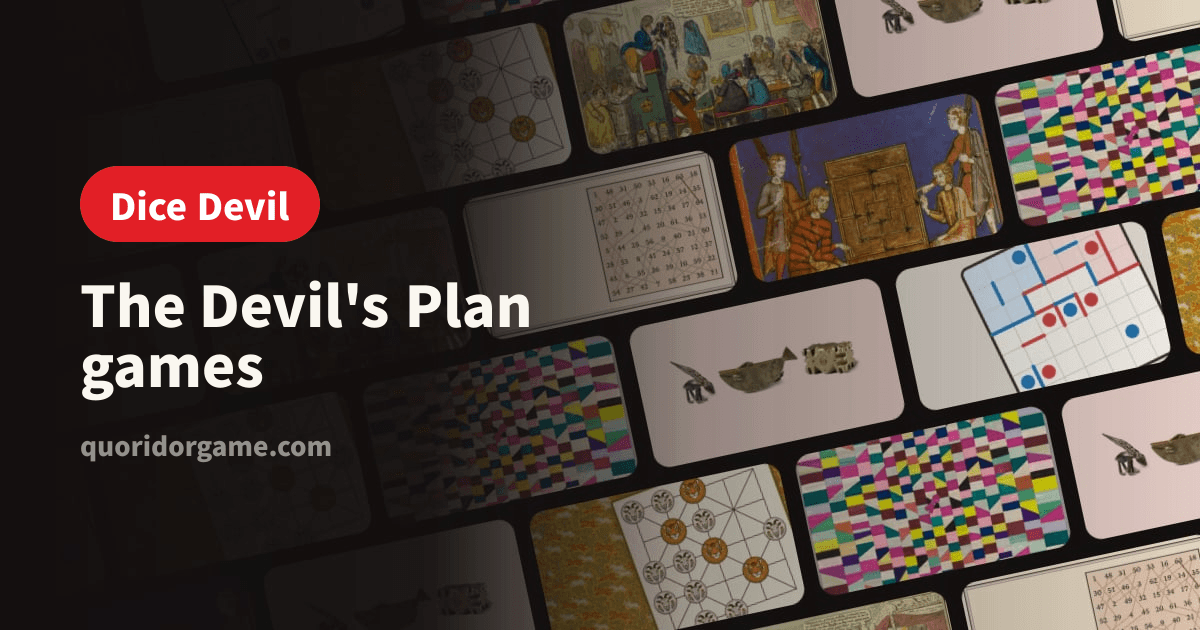
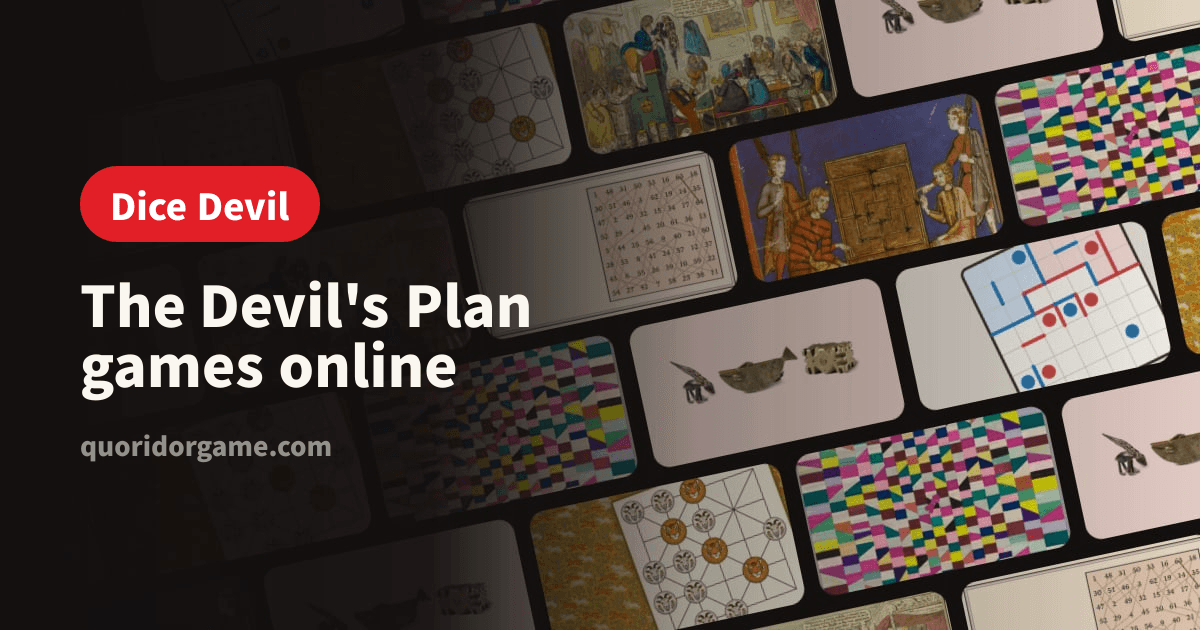
fix(platform): 分享圖大標第二行補成一句
原本「遊戲」兩個字自己一行，像被擠下去的（Zach）。六語第二行都改成完整的一句：
遊戲線上玩／游戏在线玩／games online／ゲームで遊ぼう／게임 바로 플레이／เล่นเกมจาก（泰文是第一行）。

Claude-Session: https://claude.ai/code/session_01VbfEeJvisc9iRddWhVWALh

Changed region(s): [[0.2158, 0.5429, 0.4008, 0.6333], [0.9558, 0.0905, 0.9867, 0.1206], [0.8325, 0.754, 0.8633, 0.7841]]

diff --git a/app/i18n/messages/th.ts b/app/i18n/messages/th.ts
@@ -40,7 +40,7 @@ const th: Messages = {
     ogTitle: "รวมเกมใน The Devil's Plan",
     ogDescription: 'ทุกเกมในรายการ เกมที่ทำเสร็จแล้วเล่นได้เลย ไม่ต้องดาวน์โหลด ไม่ต้องสมัครสมาชิก',
     heading: "เกมใน The Devil's Plan",
-    ogLines: ['เกมใน', "The Devil's Plan"],
+    ogLines: ['เล่นเกมจาก', "The Devil's Plan"],
     heroBadge: 'เล่นได้เลย',
     heroMeta: 'ซีซัน 2 Death Room · 2–3 คน · ไม่ต้องดาวน์โหลด',
     heroBody: 'กระดาน 7×7 แต่ละตาเดินหมากหนึ่งตัวแล้วสร้างกำแพงหนึ่งด้านเพื่อล้อมพื้นที่ เล่นกับคอมพิวเตอร์ หรือเปิดห้องแล้วส่งลิงก์ให้เพื่อน',

diff --git a/app/i18n/messages/zh-TW.ts b/app/i18n/messages/zh-TW.ts
@@ -38,8 +38,9 @@ const zhTW = {
     ogTitle: '魔鬼的計謀 遊戲整理與線上玩',
     ogDescription: '節目裡的每一款遊戲，能玩的直接開打。免下載、免註冊。',
     heading: '《魔鬼的計謀》遊戲',
-    /** 分享圖上的大標，逐行指定 —— 自動斷行會把節目名從中間拆開 */
-    ogLines: ['《魔鬼的計謀》', '遊戲'],
+    /** 分享圖上的大標，逐行指定 —— 自動斷行會把節目名從中間拆開。
+     *  第二行要是一句話：原本只有「遊戲」兩個字自己一行，看起來像被擠下去的（10/25 Zach） */
+    ogLines: ['《魔鬼的計謀》', '遊戲線上玩'],
     heroBadge: '現在就能玩',
     heroMeta: '第 2 季《死亡密室》．2–3 人．免下載',
     heroBody: '7×7 的棋盤，每回合走一步、蓋一道牆，把地圍起來。可以跟電腦下，或開房間傳連結給朋友。',

diff --git a/app/i18n/messages/ja.ts b/app/i18n/messages/ja.ts
@@ -31,7 +31,7 @@ const ja: Messages = {
     ogTitle: 'デビルズプラン ゲーム一覧とルール',
     ogDescription: '番組のゲームを一覧で。遊べるものはすぐプレイ。インストールも登録も不要。',
     heading: '『悪魔の計略』のゲーム',
-    ogLines: ['『悪魔の計略』の', 'ゲーム'],
+    ogLines: ['『悪魔の計略』の', 'ゲームで遊ぼう'],
     heroBadge: '今すぐ遊べる',
     heroMeta: 'シーズン2・2〜3人・インストール不要',
     heroBody: '7×7 の盤で、毎ターン駒を動かして壁を1枚立て、陣地を囲みます。コンピューターと対戦するか、部屋を作ってリンクを友だちに送りましょう。',

diff --git a/app/i18n/messages/ko.ts b/app/i18n/messages/ko.ts
@@ -34,7 +34,7 @@ const ko: Messages = {
     ogTitle: '데블스 플랜 게임 정리와 온라인 플레이',
     ogDescription: '방송에 나온 게임을 한눈에. 플레이할 수 있는 게임은 바로 시작. 설치도 가입도 필요 없습니다.',
     heading: '『데블스 플랜』 게임',
-    ogLines: ['『데블스 플랜』', '게임'],
+    ogLines: ['『데블스 플랜』', '게임 바로 플레이'],
     heroBadge: '지금 플레이',
     heroMeta: '시즌2 『데스룸』 · 2~3인 · 설치 없음',
     heroBody: '7줄 판에서 매 턴 말을 움직이고 벽 하나를 세워 영역을 둘러쌉니다. 컴퓨터와 두거나, 방을 만들어 친구에게 링크를 보내세요.',

diff --git a/app/i18n/messages/zh-Hans.ts b/app/i18n/messages/zh-Hans.ts
@@ -38,7 +38,7 @@ const zhHans: Messages = {
     ogTitle: '魔鬼的计谋 游戏整理与在线玩',
     ogDescription: '节目里的每一款游戏，能玩的直接开玩。免下载、免注册。',
     heading: '《魔鬼的计谋》游戏',
-    ogLines: ['《魔鬼的计谋》', '游戏'],
+    ogLines: ['《魔鬼的计谋》', '游戏在线玩'],
     heroBadge: '现在就能玩',
     heroMeta: '第 2 季《死亡密室》·2–3 人·免下载',
     heroBody: '7×7 的棋盘，每回合走一步、盖一道墙，把地盘围起来。可以跟电脑下，或开房间把链接发给朋友。',

diff --git a/app/i18n/messages/en.ts b/app/i18n/messages/en.ts
@@ -32,7 +32,7 @@ const en: Messages = {
     ogTitle: "The Devil's Plan Games: Rules & Play Online",
     ogDescription: 'Every game from the show — play the ones we have built. Free, no download, no sign-up.',
     heading: "The Devil's Plan games",
-    ogLines: ["The Devil's Plan", 'games'],
+    ogLines: ["The Devil's Plan", 'games online'],
     heroBadge: 'Play now',
     heroMeta: 'Season 2: Death Room · 2–3 players · No download',
     heroBody: 'A 7×7 board. Each turn, move a piece and build one wall to claim territory. Play the computer, or open a room and send the link to friends.',
